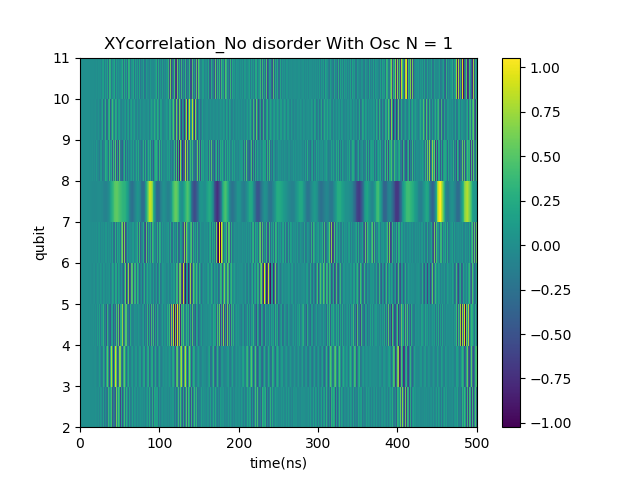
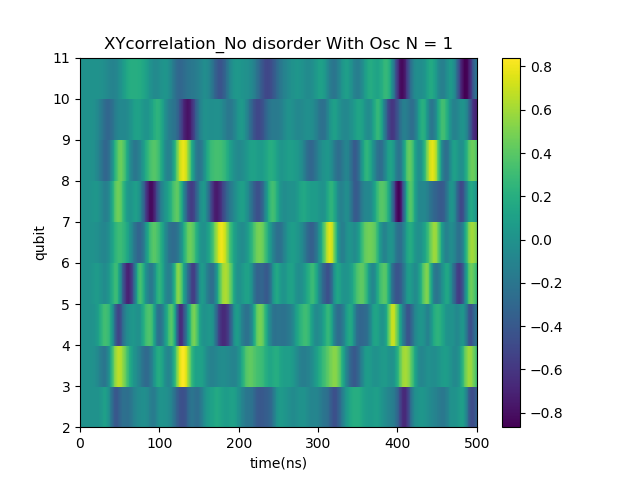
update

diff --git a/programmer/programme/algorithm/ErgodicProximityEffect/ErgodicProximityEffect.py b/programmer/programme/algorithm/ErgodicProximityEffect/ErgodicProximityEffect.py
@@ -55,7 +55,44 @@ def standing_wave(t,args,args_para):
     else:
         print('Time Error')
     return(float(w))
-def Drive_Hamiltonian(QBC,frequency_working,t_total,N,):
+def OTOC_traveling_wave(t,args,args_para):
+    '''
+    args:
+        t_total
+        t_rise
+        t_xita
+        delta
+        h1
+        omega
+    '''
+    t_total = args_para['t_total']
+    t_rise = args_para['t_rise']
+    t_xita = args_para['t_xita']
+    delta = args_para['delta']
+    h1 = args_para['h1']
+    omega = args_para['omega']
+    if t<=0 :
+        w = 0
+    elif t>0 and t<=t_rise:
+        w = delta*(t/t_rise)
+    elif t>t_rise and t<=(t_total-t_xita)/2-t_rise:
+        w = delta+h1*np.cos(omega*t)
+    elif t>(t_total-t_xita)/2-t_rise and t<=(t_total-t_xita)/2:
+        w = delta/(t_rise)*((t_total-t_xita)/2-t)
+    elif t>(t_total-t_xita)/2 and t<=(t_total+t_xita)/2:
+        w = 0
+    elif t>(t_total+t_xita)/2 and t<=(t_total+t_xita)/2+t_rise:
+        w = delta*((t-(t_total+t_xita)/2)/t_rise)
+    elif t>(t_total+t_xita)/2+t_rise and t<=t_total-t_rise:
+        w = delta-h1*np.cos(omega*t)
+    elif t>t_total-t_rise and t<=t_total:
+        w = delta/(t_rise)*(t_total-t)
+    elif t>t_total:
+        w = 0
+    else:
+        print('Time Error')
+    return(float(w))
+def Drive_Hamiltonian(QBC,frequency_working,t_total,osc,N,):
     Hdrive = []
     drive_pulse = []
     central_point = int(QBC.num_qubits/2)
@@ -63,8 +100,12 @@ def Drive_Hamiltonian(QBC,frequency_working,t_total,N,):
         if ii < central_point and ii >=0:
             ## Ergodic domain
             delta = frequency_working[ii]-QBC.frequency[ii]
-            h1 = N*QBC.coupling[0]*np.cos(2*np.pi*(10-ii)/central_point)
-            omega = 2*np.sqrt(8*np.pi**2*N*coupling[0]*QBC.coupling[0]/central_point**2)
+            if osc:
+                h1 = N*QBC.coupling[0]*np.cos(2*np.pi*(10-ii)/central_point)
+                omega = 2*np.sqrt(8*np.pi**2*N*QBC.coupling[0]*QBC.coupling[0]/central_point**2)/3
+            else:
+                h1 = 0
+                omega = 0
             args = {'t_total':t_total , 't_rise':1 , 'delta':delta , 'h1': h1 , 'omega':omega}
             pulse_shape = partial(traveling_wave , args_para = args)
             drive_pulse.append(pulse_shape)
@@ -78,9 +119,35 @@ def Drive_Hamiltonian(QBC,frequency_working,t_total,N,):
             Hdrive.append([QBC.sm[ii].dag()*QBC.sm[ii],drive_pulse[ii]])
         else:
             print('Index Error')
-    
+    return(Hdrive)
 
-
+def Drive_Hamiltonian_OTOC(QBC,frequency_working,t_total,t_xita,osc,N,):
+    Hdrive = []
+    drive_pulse = []
+    central_point = int(QBC.num_qubits/2)
+    for ii in range(QBC.num_qubits):
+        if ii < central_point and ii >=0:
+            ## Ergodic domain
+            delta = frequency_working[ii]-QBC.frequency[ii]
+            if osc:
+                h1 = N*QBC.coupling[0]*np.cos(2*np.pi*(10-ii)/central_point)
+                omega = 2*np.sqrt(8*np.pi**2*N*QBC.coupling[0]*QBC.coupling[0]/central_point**2)/3
+            else:
+                h1 = 0
+                omega = 0
+            args = {'t_total':t_total , 't_rise':5 ,'t_xita':t_xita, 'delta':delta , 'h1': h1 , 'omega':omega}
+            pulse_shape = partial(OTOC_traveling_wave , args_para = args)
+            drive_pulse.append(pulse_shape)
+            Hdrive.append([QBC.sm[ii].dag()*QBC.sm[ii],drive_pulse[ii]])
+        elif ii >= central_point and ii <= QBC.num_qubits:
+            ## localized domain
+            delta = frequency_working[ii]-QBC.frequency[ii]
+            args = {'t_total':t_total , 't_rise':1 , 'delta':delta }
+            pulse_shape = partial(standing_wave , args_para = args)
+            drive_pulse.append(pulse_shape)
+            Hdrive.append([QBC.sm[ii].dag()*QBC.sm[ii],drive_pulse[ii]])
+        else:
+            print('Index Error')
     return(Hdrive)
 
 def StateEvolution(qubit_chain , Hdrive , inistate , t_total):
@@ -91,15 +158,26 @@ def StateEvolution(qubit_chain , Hdrive , inistate , t_total):
     psi = inistate
     QB = qubit_chain
 
-    finalstate = QB.evolution(drive = Hdrive , psi = psi ,  track_plot = False , RWF = 'CpRWF',argument = args )
+    c_op_list = []
+    T1 = 30000
+    T2 = 5000
+    n_th = 0.01
+    gamma = 1.0/T1
+    gamma_phi = 1.0/T2-1/2/T1
+    for ii in range(QB.num_qubits):
+        c_op_list.append(np.sqrt(gamma * (1+n_th)) * QB.sm[ii])
+        c_op_list.append(np.sqrt(gamma * n_th) * QB.sm[ii].dag())
+        c_op_list.append(np.sqrt(2*gamma_phi) * QB.sm[ii].dag()*QB.sm[ii])
+
+    finalstate = QB.evolution(drive = Hdrive , psi = psi , collapse = [], track_plot = False , RWF = 'NoRWF',argument = args )
 
     return(QB)
 
-def initialstate(QBC):
+def initialstate(QBC,excitation = [0]):
     psi = []
     num_qubits = QBC.num_qubits
     for ii in range(num_qubits):
-        if ii == int(num_qubits/2)-1:
+        if ii in excitation:
             psi.append(basis(QBC.N_level[ii],1))
         else:
             psi.append(basis(QBC.N_level[ii],0))
@@ -119,7 +197,7 @@ def plot_evolution(QB,note):
     x,y = np.meshgrid(tlist,np.r_[qlist,qlist[-1]+1])
     # x,y = np.meshgrid(qlist,tlist)
     plt.figure()
-    plt.pcolor(x,y,Zlist)
+    plt.pcolor(x,y,Zlist,cmap='jet')
     plt.title('population_'+note)
     plt.colorbar()
     plt.xlabel('time(ns)');plt.ylabel('qubit')
@@ -133,7 +211,9 @@ def plot_evolution(QB,note):
         XYcorrelation_list[ii] = QB.expect_evolution(QB.X_m[-1]*QB.X_m[ii]+QB.Y_m[-1]*QB.Y_m[ii])
     x,y = np.meshgrid(tlist,np.r_[qlist[1:],qlist[-1]+1])
     plt.figure()
-    plt.pcolor(x,y,XYcorrelation_list)
+    
+    plt.pcolor(x,y,XYcorrelation_list,cmap='jet')
+    
     plt.title('XYcorrelation_'+note)
     plt.colorbar()
     plt.xlabel('time(ns)');plt.ylabel('qubit')
@@ -147,7 +227,9 @@ def plot_evolution(QB,note):
         ZZcorrelation_list[ii] = QB.expect_evolution((QB.E_g[-1]-QB.E_e[-1])*(QB.E_g[ii]-QB.E_e[ii]))-QB.expect_evolution((QB.E_g[-1]-QB.E_e[-1]))*QB.expect_evolution((QB.E_g[ii]-QB.E_e[ii]))
     x,y = np.meshgrid(tlist,np.r_[qlist[1:],qlist[-1]+1])
     plt.figure()
-    plt.pcolor(x,y,ZZcorrelation_list)
+    
+    plt.pcolor(x,y,ZZcorrelation_list,cmap='jet')
+    
     plt.title('ZZcorrelation_'+note)
     plt.colorbar()
     plt.xlabel('time(ns)');plt.ylabel('qubit')
@@ -157,6 +239,28 @@ def plot_evolution(QB,note):
     
     # plt.show()
     return([Zlist,XYcorrelation_list,ZZcorrelation_list])
+def plot_evolution_OTOC(QB,note):
+    tlist = QBC.tlist
+    qlist = [ii+1 for ii in range(QBC.num_qubits)]
+
+    '''
+    OTOC
+    '''
+    OTOClist = np.zeros([len(qlist),len(tlist)])
+    for ii in range(len(qlist)):
+        OTOClist[ii] = QB.expect_evolution(QB.sm[ii].dag()*QB.sm[ii])
+    x,y = np.meshgrid(tlist,np.r_[qlist,qlist[-1]+1])
+    # x,y = np.meshgrid(qlist,tlist)
+    plt.figure()
+    plt.pcolor(x,y,OTOClist,cmap='jet')
+    plt.title('OTOClist_'+note)
+    plt.colorbar()
+    plt.xlabel('time(ns)');plt.ylabel('qubit')
+    plt.savefig('./result/OTOClist_'+str(note))
+    
+    
+    # plt.show()
+    return([OTOClist])
 def plt_waveform(QBC,note):
     fig,axes = plt.subplots(1,1)
     tlist  = QBC.tlist
@@ -170,10 +274,11 @@ def plt_waveform(QBC,note):
     plt.xlabel('time(ns)');plt.ylabel('frequency(GHz)');plt.title('waveform_'+note)
     plt.savefig('./result/waveform_'+str(note))
     plt.show()
+    return()
 
-def ErgodicEffect(QBC,frequency_working,t_total,note , N ):
-    ini_state = initialstate(QBC)
-    Hdrive = Drive_Hamiltonian(QBC,frequency_working,t_total , N)
+def ErgodicEffect(QBC , excitation, frequency_working,t_total , osc , note , N ):
+    ini_state = initialstate(QBC , excitation)
+    Hdrive = Drive_Hamiltonian(QBC,frequency_working,t_total , osc , N)
     QB = StateEvolution(QBC , Hdrive , ini_state , t_total)
 
     central_point = int(QBC.num_qubits/2)
@@ -183,8 +288,24 @@ def ErgodicEffect(QBC,frequency_working,t_total,note , N ):
     data_list = plot_evolution(QB,note)
     # plot_tlist = np.linspace(0,t_total,)
     return(data_list)
+def ErgodicEffect_OTOC(QBC , excitation, frequency_working,t_total , t_xita, osc , note , N ):
+    ini_state = initialstate(QBC , excitation)
+    Hdrive = Drive_Hamiltonian_OTOC(QBC,frequency_working , t_total , t_xita , osc , N)
+    QB = StateEvolution(QBC , Hdrive , ini_state , t_total)
 
+    central_point = int(QBC.num_qubits/2)
+    omega = 2*np.sqrt(8*np.pi**2*QBC.coupling[0]**2/central_point**2)
+    T = 2*np.pi/omega
 
+    data_list = plot_evolution_OTOC(QB,note)
+    # plot_tlist = np.linspace(0,t_total,)
+    return(data_list)
+
+def frequency_working_setup(frequency_working,disorder):
+    size = np.size(frequency_working)
+    for ii in range(int(size/2),size):
+        frequency_working[ii] = frequency_working[ii]+random.uniform(-disorder,disorder)
+    return(frequency_working)
     
 if  __name__ == '__main__':
     Num_qubits = 10
@@ -199,14 +320,23 @@ if  __name__ == '__main__':
     # # frequency_working = np.array([4.43650 ,	4.42855 ,	4.41570 ,	4.41570 ,	4.42855 ,	4.43082 ,	4.40897 ,	4.45854 ,	4.41848 ,	4.39802 ])* 2*np.pi
     # frequency_working = np.array([4.43650 ,	4.42855 ,	4.41570 ,	4.41570 ,	4.42855 ,	4.42504 ,	4.40879 ,	4.50660 ,	4.33894 ,	4.37505 ])* 2*np.pi
     
-    N = 1
+    N = 2
     h0 = N*coupling[0]
     frequency_working = (4.425)*2*np.pi+h0*np.cos(2*np.pi*(10-np.arange(10))/5)
-    # frequency_working = (4.425)*2*np.pi+h0*np.cos(2*np.pi*(10-np.arange(10))/5)+random.uniform(-5*coupling[0],5*coupling[0])
-    # frequency_working = (4.425)*2*np.pi+h0*np.cos(2*np.pi*(10-np.arange(10))/5)+random.uniform(-10*coupling[0],10*coupling[0])
+    # frequency_working = frequency_working_setup(frequency_working,5*coupling[0])
+    # frequency_working = frequency_working_setup(frequency_working,10*coupling[0])
+
+    # plt.figure();plt.plot(frequency_working/2/np.pi);plt.savefig('./result/frequency_working_No');plt.show()
 
     t_total = 500
-    note = 'No disorder With Osc N = 1'
-    data_list = ErgodicEffect(QBC,frequency_working,t_total,note = note,N = N)
+    t_xita = 40
+    excitation = [2]
+
+    # note = 'j = 3,No disorder No Osc N =  '+str(N)+',excitation='+str(excitation)
+    # data_list = ErgodicEffect(QBC , excitation , frequency_working,t_total , osc = False , note = note , N = N)
+    # plt_waveform(QBC,note = note)
+
+    note = 'j = 3,No disorder  With Osc N =  '+str(N)+',excitation='+str(excitation)+',t_xita='+str(t_xita)
+    data_list = ErgodicEffect_OTOC(QBC , excitation , frequency_working,t_total ,t_xita, osc = True ,  note = note , N = N)
     plt_waveform(QBC,note = note)
     
